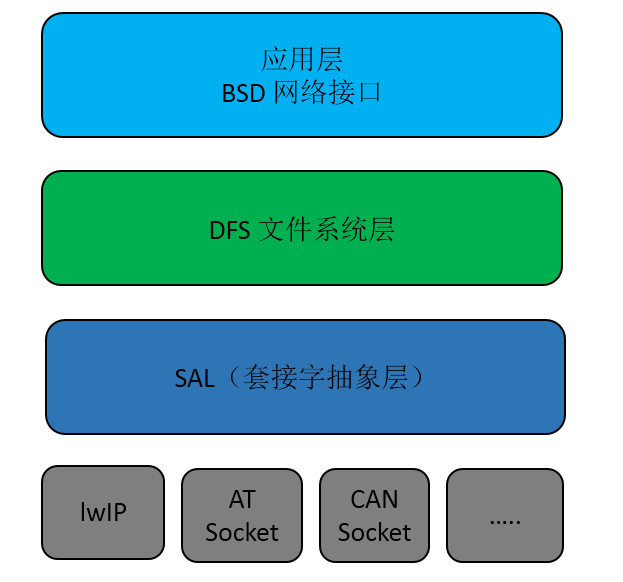
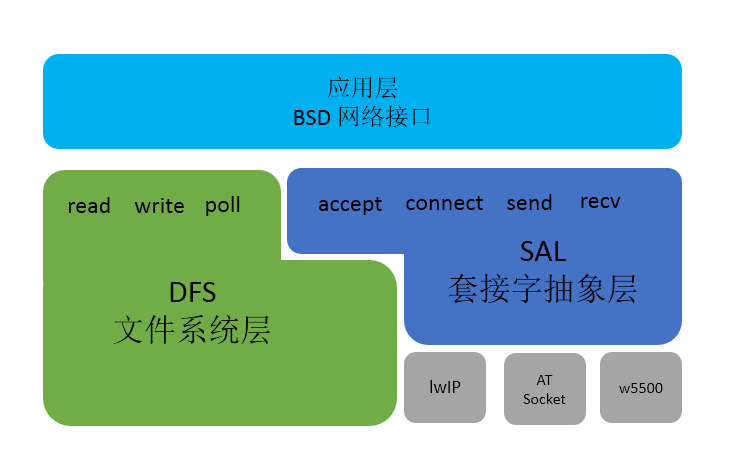
【修改】SAL 组件编程指南中框架及细节修改

diff --git a/zh/1chapters/18-chapter_sal.md b/zh/1chapters/18-chapter_sal.md
@@ -2,7 +2,7 @@
 
 ## 简介 ##
 
-为了适配更多的网络协议栈类型，避免系统对单一网络协议栈的依赖，RT-Thread 系统提供 SAL（套接字抽象层）组件，该组件完成对不同网络协议栈接口的抽象并对上层提供一组标准的 BSD Socket API，这样开发者只需要关心和使用网络应用层提供的网络接口，而无需关心底层使用具体网络协议栈类型，极大的提过的系统的兼容性，方便开发者使用。
+为了适配更多的网络协议栈类型，避免系统对单一网络协议栈的依赖，RT-Thread 系统提供了一套 SAL（套接字抽象层）组件，该组件完成对不同网络协议栈或网络实现接口的抽象并对上层提供一组标准的 BSD Socket API，这样开发者只需要关心和使用网络应用层提供的网络接口，而无需关心底层具体网络协议栈类型和实现，极大的提搞的系统的兼容性，方便开发者完成协议栈的适配和网络相关的开发。
 
 主要功能特点：
 
@@ -12,37 +12,44 @@
 
 ## 网络框架 ##
 
-RT-Thread 的网络框架主要采用四层结构形式， 如图 **SAL 网络框架图**所示：
+RT-Thread 的网络框架主要采用如下结构形式， 如图 **SAL 网络框架图**所示：
 
 ![SAL 网络框架图](../../figures/sal_frame.jpg)
 
-最顶层是网络应用层，提供一套标准的网络编程接口，如 socket、connect 等函数，RT-Thread 系统中开发者只需要使用标准应用层接口就可以进行大部分网络开发。
+最顶层是网络应用层，提供一套标准 BSD Socket API ，如 socket、connect 等函数，用于系统中大部分网络开发应用。
 
-第二层为网络虚拟文件系统，在 RT-Thread 系统中，通过虚拟文件系统 DFS，程序可以使用标准的接口函数对不同的文件系统，甚至不同介质上的文件系统进行读写操作。网络套接字接口也是支持虚拟文件系统结构，使用网络套接字接口时创建的网络套接字描述符由文件系统统一管理，所以网络套接字描述符也可使用标准文件操作接口，如 read、write等。
+第二部分为文件系统层，在 RT-Thread 系统中，通过 DFS 文件系统程序可以使用标准的接口函数实现不同的文件系统操作。网络套接字接口也是支持文件系统结构，使用网络套接字接口时创建的网络套接字描述符由文件系统统一管理，所以网络套接字描述符也可使用标准文件操作接口，文件系统层为上层应用层提供的接口有：read、write、close、poll等。
 
-第三层为套接字抽象层，通过它 RT-Thread 系统能够适配下层不同的网络协议栈，并提供给上层统一的网络编程接口，方便不同协议栈的接入。
+第三部分为套接字抽象层，通过它 RT-Thread 系统能够适配下层不同的网络协议栈，并提供给上层统一的网络编程接口，方便不同协议栈的接入。套接字抽象层为上层应用层提供接口有：accept、connect、send、revcv等。
 
-第四层为协议栈层，该层包括几种常用的 TCP/IP 协议栈，例如嵌入式领域常用的轻型 TCP/IP 协议栈 lwIP 以及 AT Socket 协议栈等。这些协议栈直接和硬件接触，完成数据从网络层到传输层的转化。
+第四部分为协议栈层，该层包括几种常用的 TCP/IP 协议栈，例如嵌入式开发中常用的轻型 TCP/IP 协议栈 lwIP 以及 RT-Thread 自主研发的 AT Socket 网络功能实现等。这些协议栈或网络功能实现直接和硬件接触，完成数据从网络层到传输层的转化。
 
-RT-Thread 的网络应用层提供的接口主要以标准 BSD Socket API为主，这样也能够保证程序可以在PC 上编写、调试，然后再移植到 RT-Thread 操作系统上。
+RT-Thread 的网络应用层提供的接口主要以标准 BSD Socket API 为主，这样能确保程序可以在PC 上编写、调试，然后再移植到 RT-Thread 操作系统上。
 
 ## 工作原理 ###
 
-SAL 组件主要实现的两个功能：支持多个协议栈和抽象统一的接口函数。对于不同的协议栈，网络接口的名称各不相同，以 connect 连接函数为例，lwIP 协议栈中接口名称为 lwip_connect ，而 AT socket 协议栈中接口名称为 at_connect。为了同时支持这两种协议栈，并且使用统一接口，SAL 组件实现通过 socket 创建时传入的协议簇类型判断使用哪种协议簇的功能。
-
-    int socket(int domain, int type, int protocol);
-
-上述为标准 BSD Socket API 中 socket 函数定义，其中 domain 表示协议域又称为协议簇（family），用于判断使用哪种协议簇，常见的有 AF_INET、AF_INET6 等。 SAL 组件中就是通过判断 socket 创建时传入的协议簇类型，定位该 socket 使用的协议栈类型。目前支持的如下两种协议栈：
-
-- lwIP 协议栈： family = AF_INET、sec_family = AF_INET
-
-- AT Socket 协议栈： family = AF_AT、sec_family = AF_INET
-
- AT socket 协议栈是 RT-Thread 系统自主研发的基于 AT 组件的简单网络协议栈，其设备的连接和数据的通讯都是通过 AT 命令完成，支持 BSD Socket API 标准。
- 
- SAL 组件中每个协议簇类型存在一个结构体，由协议簇列表统一管理，协议簇结构体中定义了该协议栈的执行函数，如 lwIP 协议栈中的 lwip_socket、lwip_connect 等函数。 SAL 组件中每个创建的 socket 也存在一个结构体，由 socket 列表统一管理，socket 结构体中存放当前 socket 的执行函数和基本信息，在 socket 创建时通过判断传入协议簇类型，注册对应协议簇执行函数到 socket 结构体执行函数中。之后，使用该 socket 进行函数操作时，主要是获取 socket 结构体中的协议簇执行函数，完成函数操作。如下代码为 connect 函数示例：
+SAL 组件主要实现的两个功能：支持多个协议栈接入和统一抽象接口函数。对于不同的协议栈或网络功能实现，网络接口的名称可能各不相同，以 connect 连接函数为例，lwIP 协议栈中接口名称为 lwip_connect ，而 AT socket 网络实现中接口名称为 at_connect。SAL 组件提供对不同协议栈或网络实现接口的抽象和统一，组件在 socket 创建时通过**判断传入的协议簇（domain）类型来判断使用的协议栈或网络功能**，完成 RT-Thread 系统中多协议的接入与使用。
 
  ```c
+    int socket(int domain, int type, int protocol);
+ ```
+
+上述为标准 BSD Socket API 中 socket 创建函数的定义，其中 `domain` 表示协议域又称为协议簇（family），用于判断使用哪种协议栈或网络实现，AT Socket 网络实现的协议簇类型为 `AT_AF`，lwIP 协议栈使用协议簇类型有 `AF_INET`、`AF_INET6` 等。开启 lwIP 协议栈支持后，使用 AF_INET 创建网络套接字，则此套接字底层使用 lwIP 协议栈函数实现。
+
+> AT Socket 是 RT-Thread 自主研发的基于 AT 组件的网络功能实现，其设备的连接和数据的通讯都是通过 AT 命令完成，支持标准 BSD Socket API 。
+
+目前 RT-Thread 系统中网络软件包或网络功能的 socket 创建函数中协议簇类型固定，若要支持不同的协议栈或网络实现需要修改传入的协议簇类型。为了适配不同协议栈或网络实现，SAL 组件中对于每个协议栈或者网络实现提供两种协议簇类型匹配方式：**主协议簇类型和次协议簇类型**。socket 创建时先判断传入协议簇类型是否存在已经支持的主协议类型，如果是则使用对应协议栈或网络实现，如果不是判断次协议簇类型是否支持。目前系统支持协议簇类型如下：
+
+ ```c
+    lwIP 协议栈： family = AF_INET、sec_family = AF_INET
+
+    AT Socket 网络实现： family = AF_AT、sec_family = AF_INET
+ ```
+
+ 对于 SAL 组件中协议簇的支持，组件中每个协议簇类型存在一个协议簇结构体，由协议簇结构体列表统一管理，协议簇结构体中定义了该协议栈的执行函数，如 lwIP 协议栈中的 lwip_socket()、lwip_connect() 等。 SAL 组件中创建的每个 socket 也存在结构体定义，由 socket 结构体列表统一管理，socket 结构体中存放当前 socket 的执行函数和基本信息，在 socket 创建时通过判断传入协议簇类型，注册对应协议簇执行函数到 socket 结构体执行函数中。之后，使用该 socket 进行函数操作时，主要是获取 socket 结构体中的协议簇执行函数，完成函数操作。如下为 SAL 组件中 connect 函数抽象实现示例：
+
+ ```c
+ /* SAL 组件为应用层提供的标准 BSD Socket API */
 int connect(int s, const struct sockaddr *name, socklen_t namelen)
 {
     /* 获取 SAL 套接字描述符 */
@@ -52,6 +59,7 @@ int connect(int s, const struct sockaddr *name, socklen_t namelen)
     return sal_connect(socket, name, namelen);
 }
 
+ /* SAL 组件抽象函数接口实现 */
 int sal_connect(int socket, const struct sockaddr *name, socklen_t namelen)
 {
     struct socket *sock;
@@ -71,6 +79,12 @@ int sal_connect(int socket, const struct sockaddr *name, socklen_t namelen)
     /* 调用获取结构体中对应的协议簇执行函数 */
     return sock->ops->connect((int) sock->user_data, name, namelen);
 }
+
+/* 协议簇执行函数调用底层 lwIP 协议栈函数实现 */
+int lwip_connect(int socket, const struct sockaddr *name, socklen_t namelen)
+{
+    ...
+}
  ```
 
 ## 配置选项 ##
@@ -81,7 +95,6 @@ int sal_connect(int socket, const struct sockaddr *name, socklen_t namelen)
 #define RT_USING_SAL
 #define SAL_USING_LWIP
 #define SAL_USING_AT
-#define SAL_SOCKETS_NUM 16
 #define SAL_PROTO_FAMILIES_NUM 4
 ```
 
@@ -91,10 +104,9 @@ int sal_connect(int socket, const struct sockaddr *name, socklen_t namelen)
 
 > 目前 SAL 抽象层只支持 lwIP 协 议栈和 AT Socket 协议栈，系统中开启 SAL 需要至少开启一种协议栈支持。
 
-- `SAL_SOCKETS_NUM`：支持最大的 socket 创建数量；
-- `SAL_PROTO_FAMILIES_NUM`: 支持最大的同时开启的协议栈数量；
+- `SAL_PROTO_FAMILIES_NUM`: 支持最大的同时开启的协议栈或网络实现数量；
 
-上面配置选项可以直接在 `rtconfig.h` 文件中添加使用，也可以通过组件包管理工具 ENV 配置选项加入，ENV 中具体路径如下：
+上面配置选项可以直接在 `rtconfig.h` 文件中添加使用，也可以通过组件包管理工具 ENV 配置选项加入，ENV 工具中具体配置路径如下：
 
 ```C
 RT-Thread Components  ---> 
@@ -102,7 +114,6 @@ RT-Thread Components  --->
         Socket abstraction layer  --->  
         [*] Enable socket abstraction layer
                protocol family type  --->
-         (16)  the number of socket
          (4)   the number of protocol family 
 ```
 
@@ -114,25 +125,29 @@ RT-Thread Components  --->
 
     int sal_init(void);
 
-该初始化函数主要是对 SAL 组件初始化状态的显示，防止组件重复初始化，以及对组件中使用的互斥锁等资源的初始化。 SAL 组件中没有创建新的线程，这也意味着 SAL 组件资源占用极小，可以适用于多种不同的设备上。
+该初始化函数主要是对 SAL 组件进行初始，支持组件重复初始化判断，完成对组件中使用的互斥锁等资源的初始化。 SAL 组件中没有创建新的线程，这也意味着 SAL 组件资源占用极小，目前 SAL 组件资源占用为 ROM 2.8K 和 RAM 0.6K。
 
-除了 SAL 组件的初始化，我们在使用 SAL 组件是还需要对支持的协议栈进行初始化。开启 SAL 组件最少开启一种协议栈支持，目前 SAL 组件只支持 lwIP 和 AT Socket 两种。对于协议栈的支持，主要是完成以下初始化及协议簇注册过程，确保 socket 创建时能找到对应的协议栈类型。
+除了 SAL 组件的初始化，我们在使用 SAL 组件之前还需要对其支持的协议栈或网络实现完成注册过程。对于 SAL 组件中协议栈或网络实现的注册，主要是完成以下初始化及协议簇注册过程，确保 socket 创建时能找到对应的协议簇类型。
+
+### lwIP 协议栈注册 ###
 
 如果开启 lwIP 支持，需要在 SAL 组件中对 lwIP 协议栈的进行注册初始化，主要是在 `sal_socket/proto/lwip/af_inet_lwip.c` 文件中完成，如果文件中已经完成自动初始化则可忽略，如果没有则需要调用如下初始化函数：
 
     int lwip_inet_init(void)；
 
+### AT Socket网络功能注册 ###
+
 如果开启 AT Socket 支持，需要在 SAL 组件中对于 AT Socket 协议栈的进行注册初始化，主要是在 `sal_socket/proto/at/src/af_inet_at.c` 文件中完成，如果文件中已经完成自动初始化则可忽略，如果没有则需要调用如下初始化函数：
 
     int at_inet_init(void)；
 
-初始化完成之后就可以正常使用 SAL 组件，使用抽象的标准网络接口函数编程。
+初始化完成之后就可以正常使用 SAL 组件，使用抽象的标准 BSD Socket API 编程。
 
 ## API 接口介绍 ##
 
 SAL 组件抽象出标准 BSD Socket API 接口，如下是对常用网络接口的介绍：
 
-### 创建套接字
+### 创建套接字（socket） ###
 
 `int socket(int domain, int type, int protocol);`
 
@@ -162,11 +177,11 @@ SAL 组件抽象出标准 BSD Socket API 接口，如下是对常用网络接口
 - SOCK_DGRAM： 数据包服务或者 Datagram Sockets
 - SOCK_RAW： 网络层的原始协议
 
-### 绑定套接字 
+### 绑定套接字（bind） ###
 
 `int bind(int s, const struct sockaddr *name, socklen_t namelen);`
 
-给套接字分配一个地址。当使用 `socket()` 创造一个套接字时, 只是给定了协议族,并没有分配地址。在套接字能够接受来自其他主机的连接前，必须用 `bind()` 给它绑定一个地址。  
+用于将端口号和 IP 地址绑定带指定套接字上。当使用 `socket()` 创造一个套接字时, 只是给定了协议族，并没有分配地址，在套接字接收来自其他主机的连接前，必须用 `bind()` 给它绑定一个地址和端口号。  
 
 | 参数              | 描述                                          |
 |:------------------|:------------------------------------         |
@@ -177,11 +192,11 @@ SAL 组件抽象出标准 BSD Socket API 接口，如下是对常用网络接口
 |0                  | 成功                                          |
 |-1                 | 失败                                          |
 
-### 监听套接字
+### 监听套接字（listen） ###
 
 `int listen(int s, int backlog);`
 
-一旦一个套接字和一个地址联系之后，`listen()` 监听到来的连接。但是这只适用于对面向连接的模式，例如 套接字类型是 （`SOCK_STREAM`， `SOCK_SEQPACKET`）。
+用于 TCP 服务器监听指定套接字连接。
 
 | 参数              | 描述                                 |
 |:------------------|:------------------------------------|
@@ -191,11 +206,11 @@ SAL 组件抽象出标准 BSD Socket API 接口，如下是对常用网络接口
 |0                  | 成功                                |
 |-1                 | 失败                                |
 
-### 接收连接
+### 接收连接（accept） ###
 
 `int accept(int s, struct sockaddr *addr, socklen_t *addrlen);`
 
-当应用程序监听来自其他主机的面对数据流的连接时,必须用 `accept()` 函数初始化连接，`accept()` 为每个连接创立新的套接字并从监听队列中移除这个连接。 
+当应用程序监听来自其他主机的连接时，使用 `accept()` 函数初始化连接，`accept()` 为每个连接创立新的套接字并从监听队列中移除这个连接。 
 
 | 参数              | 描述                                 |
 |:------------------|:------------------------------------|
@@ -207,7 +222,7 @@ SAL 组件抽象出标准 BSD Socket API 接口，如下是对常用网络接口
 |-1                 | 失败                                |
 
 
-### 建立连接 
+### 建立连接（connect） ###
 
 `int connect(int s, const struct sockaddr *name, socklen_t namelen);`
 
@@ -222,7 +237,7 @@ SAL 组件抽象出标准 BSD Socket API 接口，如下是对常用网络接口
 |0                  | 成功，返回新创建的套接字描述符        |
 |-1                 | 失败                                |
 
-### 发送数据（TCP）
+### TCP 数据发送（send） ###
 
 `send(int s, const void *dataptr, size_t size, int flags);`
 
@@ -238,7 +253,7 @@ SAL 组件抽象出标准 BSD Socket API 接口，如下是对常用网络接口
 |\>0                | 成功，返回发送的数据的长度            |
 |<=0                | 失败                                |
 
-### 接收数据（TCP）
+### TCP 数据接收（recv） ###
 
 `int recv(int s, void *mem, size_t len, int flags);`
 
@@ -252,9 +267,10 @@ SAL 组件抽象出标准 BSD Socket API 接口，如下是对常用网络接口
 |flags              | 标志，一般为0                        |
 | **返回**          | **描述**                            |
 |\>0                | 成功，返回接收的数据的长度            |
-|<=0                | 失败                                |
+|=0                 | 目标地址已传输完并关闭连接            |
+|<0                 | 失败                                |
 
-### 发送数据（UDP）
+### UDP 数据发送（sendto） ###
 
 `int sendto(int s, const void *dataptr, size_t size, int flags, const struct sockaddr *to, socklen_t tolen);`
 
@@ -272,7 +288,7 @@ SAL 组件抽象出标准 BSD Socket API 接口，如下是对常用网络接口
 |\>0                | 成功，返回发送的数据的长度            |
 |<=0                | 失败                                |
 
-### 接收数据（UDP）
+### UDP 数据接收（recvfrom） ###
 
 `int recvfrom(int s, void *mem, size_t len, int flags, struct sockaddr *from, socklen_t *fromlen);`
 
@@ -288,10 +304,11 @@ SAL 组件抽象出标准 BSD Socket API 接口，如下是对常用网络接口
 |fromlen            | 接收地址结构体长度                   |
 | **返回**          | **描述**                            |
 |\>0                | 成功，返回接收的数据的长度            |
-|<=0                | 失败                                |
+|=0                 | 接收地址已传输完并关闭连接            |
+|<0                 | 失败                                |
 
 
-### 关闭套接字 
+### 关闭套接字（closesocket） ### 
 
 `int closesocket(int s);`
 
@@ -304,11 +321,29 @@ SAL 组件抽象出标准 BSD Socket API 接口，如下是对常用网络接口
 |0                  | 成功                                |
 |-1                 | 失败                                |
 
-## 网络协议栈接入 ##
+### 按设置关闭套接字（shutdown） ###
 
-SAL 组件中每个协议簇都存在结构体用与记录协议簇信息，并且存在协议簇列表用于管多个协议簇，在使用套接字编程中通过判断存入的套接字信息判断使用哪种协议簇，进而选择使用哪种协议栈接口。
+`int shutdown(int s, int how);`
 
-开发者想要接入新的网络协议栈，主要是对协议簇结构体初始化和注册的处理, 协议簇结构体定义如下：
+提供更多的权限控制套接字的关闭过程。
+
+| 参数              | 描述                                 |
+|:------------------|:------------------------------------|
+|s                  | 套接字描述符                         |
+|how                | 套接字控制的方式                     |
+| **返回**          | **描述**                            |
+|0                  | 成功                                |
+|-1                 | 失败                                |
+
+**how**
+
+- 0： 停止接收当前数据，并拒绝以后的数据接收；
+- 1： 停止发送数据，并丢弃未发送的数据；
+- 2： 停止接收和发送数据。
+
+## 网络协议栈接入方式 ##
+
+网络协议栈或网络功能实现的接入，主要是对协议簇结构体的初始化和注册处理,并且添加到 SAL 组件中协议簇列表中，协议簇结构体定义如下：
 
 ```c
 struct proto_family
@@ -324,10 +359,9 @@ struct proto_family
 };
 ```
 
-`family` 为每个协议栈支持的主协议簇类型，例如 lwIP 的为 AF_INET ，AT Socket 为 AF_AT。`sec_family` 为每个协议栈支持的次协议簇类型，用于单个协议栈时，匹配其他的协议簇类型。`create`
-函数主要是对 socket 相关操作函数的注册，例如 connect、close 等函数，将当前协议栈的函数注册进创建的 socket 结构体中。其他几个为 socket 无关函数，用于匹配每个协议簇中函数。
+`family` 为每个协议栈支持的主协议簇类型，例如 lwIP 的为 AF_INET ，AT Socket 为 AF_AT。`sec_family` 为每个协议栈支持的次协议簇类型，用于支持单个协议栈或网络实现时，匹配软件包中其他类型的协议簇类型。`create` 函数主要是对 socket 相关执行函数的注册，例如 connect、close 等函数的，将当前协议栈的执行函数注册进创建的 SAL 组件中 socket 结构体中。其他几个函数为套接字无关执行函数，用于匹配每个协议栈或网络实现中的执行函数。
 
-以下为 AT socket 协议栈注册流程，用于可参考完成性的协议栈的接入：
+以下为 AT Socket 网络实现的注册流程，开发者可参考实现其他的协议栈或网络实现的接入：
 
 ```c
 #include <netdb.h>          
@@ -339,7 +373,7 @@ struct proto_family
 #endif
 
 #ifdef RT_USING_DFS_NET
-/* 自定义的 poll 执行函数，用于 poll 中处理接受的事件 */
+/* 自定义的 poll 执行函数，用于 poll 中处理接收的事件 */
 static int at_poll(struct dfs_fd *file, struct rt_pollreq *req)
 {
     int mask = 0;
